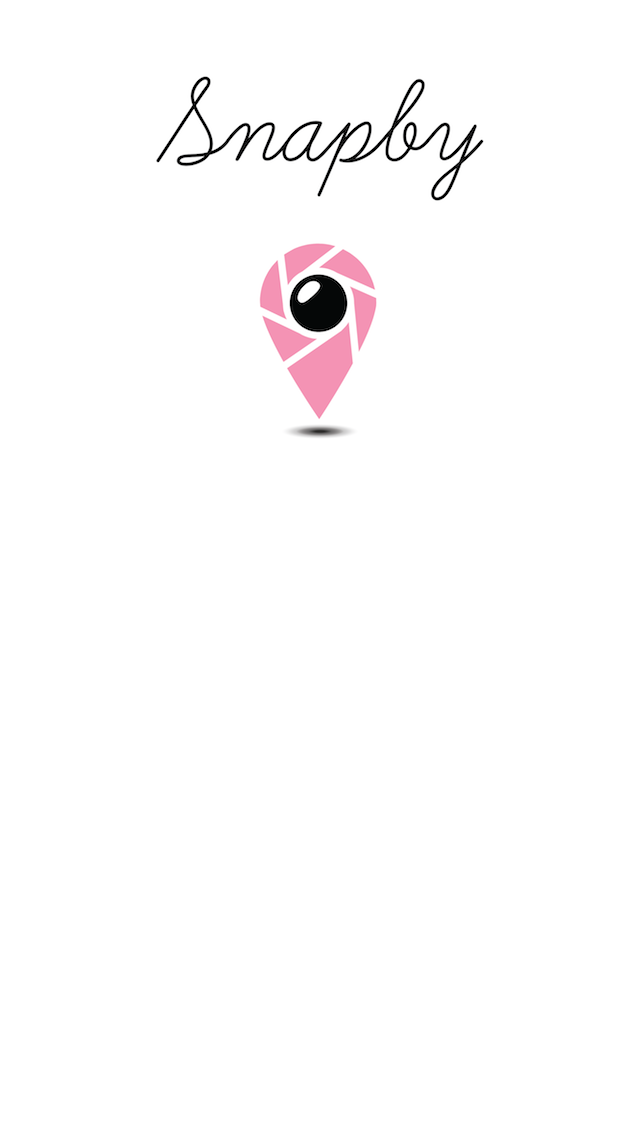
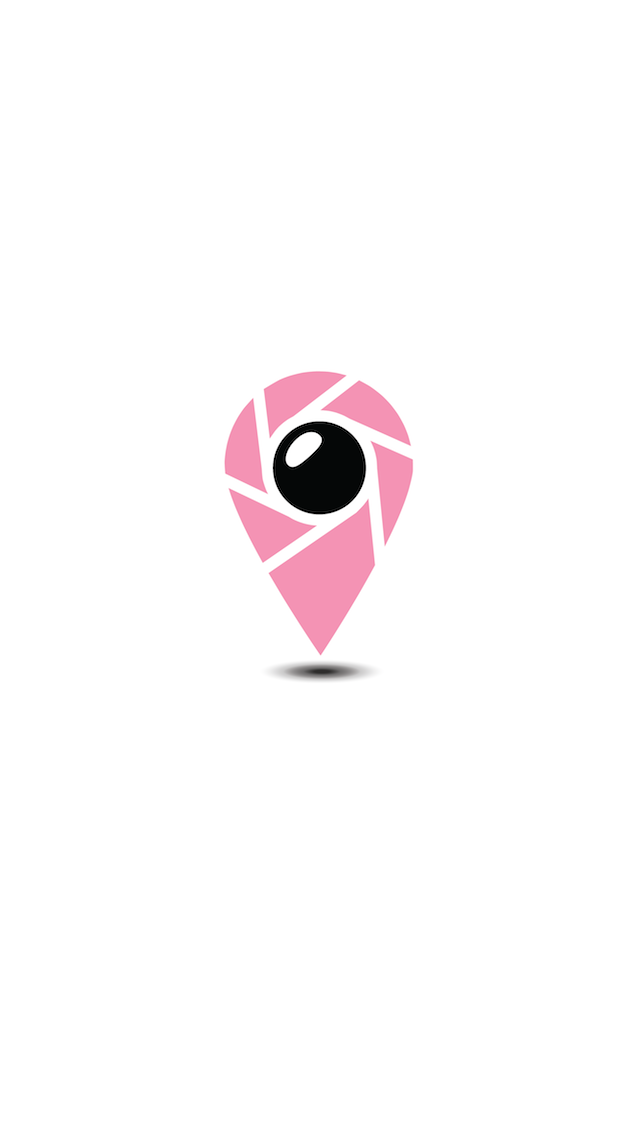
Finish welcome screen with tutorial

Changed region(s): [[0.3438, 0.2157, 0.6562, 0.6162], [0.25, 0.0616, 0.6562, 0.1849], [0.6562, 0.0924, 0.75, 0.1849]]

diff --git a/snapby-ios/Controllers/WelcomeViewController.m b/snapby-ios/Controllers/WelcomeViewController.m
@@ -13,6 +13,7 @@
 #import "NavigationAppDelegate.h"
 #import "GeneralUtilities.h"
 #import "MBProgressHUD.h"
+#import "TutorialViewController.h"
 
 
 @interface WelcomeViewController ()
@@ -25,7 +26,8 @@
 @property (weak, nonatomic) IBOutlet UILabel *signupSecondLabel;
 @property (weak, nonatomic) IBOutlet UIButton *signinButton;
 @property (weak, nonatomic) IBOutlet UILabel *signinLabel;
-@property (weak, nonatomic) IBOutlet UIImageView *backgroundImage;
+@property (weak, nonatomic) IBOutlet UIScrollView *tutorialScrollView;
+@property (weak, nonatomic) IBOutlet UIPageControl *pageControl;
 
 @end
 
@@ -33,14 +35,8 @@
 
 - (void)viewDidLoad
 {
-    //Set background image
-    NSString *filename = @"Default.png";
-    CGRect screenRect = [[UIScreen mainScreen] bounds];
-    if (screenRect.size.height == 568.0f) {
-        filename = @"Default-568h.png";
-    }
     
-    self.backgroundImage.image = [UIImage imageNamed:filename];
+//    self.backgroundImage.image = [UIImage imageNamed:filename];
     
     //Round corners
     self.facebookButtonView.layer.cornerRadius = 5.0f;
@@ -52,7 +48,58 @@
     //Nav bar
     [[self navigationController] setNavigationBarHidden:YES animated:YES];
     
+    NSUInteger h = self.tutorialScrollView.frame.size.height;
+    NSUInteger w = self.tutorialScrollView.frame.size.width;
+    
+    self.tutorialScrollView.contentSize = CGSizeMake(w * 4, h);
+    self.tutorialScrollView.delegate = self;
+    
+    TutorialViewController *firstPage = [[TutorialViewController alloc] initWithPage:0];
+    
+    TutorialViewController *secondPage = [[TutorialViewController alloc] initWithPage:1];
+    
+    TutorialViewController *thirdPage = [[TutorialViewController alloc] initWithPage:2];
+    
+    TutorialViewController *fourthPage = [[TutorialViewController alloc] initWithPage:3];
+    
+    firstPage.view.frame = CGRectMake(0, 0, w, h);
+    secondPage.view.frame = CGRectMake(w, 0, w, h);
+    thirdPage.view.frame = CGRectMake(2 * w, 0, w, h);
+    fourthPage.view.frame = CGRectMake(3 * w, 0, w, h);
+    
+    [self addChildViewController:firstPage];
+    [self.tutorialScrollView addSubview:firstPage.view];
+    [firstPage didMoveToParentViewController:self];
+    
+    [self addChildViewController:secondPage];
+    [self.tutorialScrollView addSubview:secondPage.view];
+    [secondPage didMoveToParentViewController:self];
+    
+    [self addChildViewController:thirdPage];
+    [self.tutorialScrollView addSubview:thirdPage.view];
+    [thirdPage didMoveToParentViewController:self];
+    
+    [self addChildViewController:fourthPage];
+    [self.tutorialScrollView addSubview:fourthPage.view];
+    [fourthPage didMoveToParentViewController:self];
+    
+    [self.tutorialScrollView setContentOffset: CGPointMake(self.tutorialScrollView.contentOffset.x, 0)];
+    
     [super viewWillAppear:animated];
+}
+
+//Hack to prevent vertical scrolling
+- (void)scrollViewDidScroll:(UIScrollView *)aScrollView
+{
+    [self.tutorialScrollView setContentOffset: CGPointMake(self.tutorialScrollView.contentOffset.x, 0)];
+}
+
+- (void)scrollViewDidEndDecelerating:(UIScrollView *)scrollView
+{
+    // switch the indicator when more than 50% of the previous/next page is visible
+    CGFloat pageWidth = CGRectGetWidth(self.tutorialScrollView.frame);
+    NSUInteger page = floor((self.tutorialScrollView.contentOffset.x - pageWidth / 2) / pageWidth) + 1;
+    self.pageControl.currentPage = page;
 }
 
 - (IBAction)facebookButtonClicked:(id)sender {

diff --git a/snapby-ios/Controllers/TutorialViewController.m b/snapby-ios/Controllers/TutorialViewController.m
@@ -1,0 +1,49 @@
+//
+//  TutorialViewController.m
+//  snapby-ios
+//
+//  Created by Bastien Beurier on 5/5/14.
+//  Copyright (c) 2014 Snapby. All rights reserved.
+//
+
+#import "TutorialViewController.h"
+
+@interface TutorialViewController ()
+
+@property (weak, nonatomic) IBOutlet UILabel *tutorialLabel;
+@property (weak, nonatomic) IBOutlet UIImageView *imageView;
+@property (nonatomic) NSUInteger page;
+
+@end
+
+@implementation TutorialViewController
+
+- (id)initWithPage:(NSUInteger)page
+{
+    self = [super initWithNibName:@"TutorialView" bundle:nil];
+    if (self) {
+        self.page = page;
+    }
+    return self;
+}
+
+- (void)viewDidLoad
+{
+    [super viewDidLoad];
+    
+    if (self.page == 0) {
+        self.imageView.image = [UIImage imageNamed:@"tutorial-logo"];
+        self.tutorialLabel.text = @"Snapby is all about local fun.";
+    } else if (self.page == 1) {
+        self.imageView.image = [UIImage imageNamed:@"tutorial-camera"];
+        self.tutorialLabel.text = @"Take a picture...";
+    } else if (self.page == 2) {
+        self.imageView.image = [UIImage imageNamed:@"tutorial-perimeter"];
+        self.tutorialLabel.text = @"...it’s only visible nearby!";
+    } else {
+        self.imageView.image = [UIImage imageNamed:@"tutorial-interaction"];
+        self.tutorialLabel.text = @"Discover your neighbors' photos now! ";
+    }
+}
+
+@end

diff --git a/snapby-ios/Utilities/GeneralUtilities.m b/snapby-ios/Utilities/GeneralUtilities.m
@@ -169,7 +169,7 @@
 
 + (UIActivityViewController *)getShareViewController:(UIImage *)image
 {
-    NSString *shareString = @"Hey, check out this snapby! Discover other local pictures by downloading the Snapby app.";
+    NSString *shareString = @"Download Snapby";
     
     //            NSURL *shareUrl = [NSURL URLWithString:[[(PRODUCTION? kProdSnapbyBaseURLString : kDevAFSnapbyAPIBaseURLString) stringByAppendingString:@"snapbies/"]stringByAppendingString:[NSString stringWithFormat:@"%lu",(unsigned long)snapby.identifier]]];
     

diff --git a/snapby-ios/Controllers/TutorialViewController.h b/snapby-ios/Controllers/TutorialViewController.h
@@ -1,0 +1,15 @@
+//
+//  TutorialViewController.h
+//  snapby-ios
+//
+//  Created by Bastien Beurier on 5/5/14.
+//  Copyright (c) 2014 Snapby. All rights reserved.
+//
+
+#import <UIKit/UIKit.h>
+
+@interface TutorialViewController : UIViewController
+
+- (id)initWithPage:(NSUInteger)page;
+
+@end

diff --git a/snapby-ios/Controllers/WelcomeViewController.h b/snapby-ios/Controllers/WelcomeViewController.h
@@ -8,6 +8,6 @@
 
 #import <UIKit/UIKit.h>
 
-@interface WelcomeViewController : UIViewController
+@interface WelcomeViewController : UIViewController <UIScrollViewDelegate>
 
 @end
